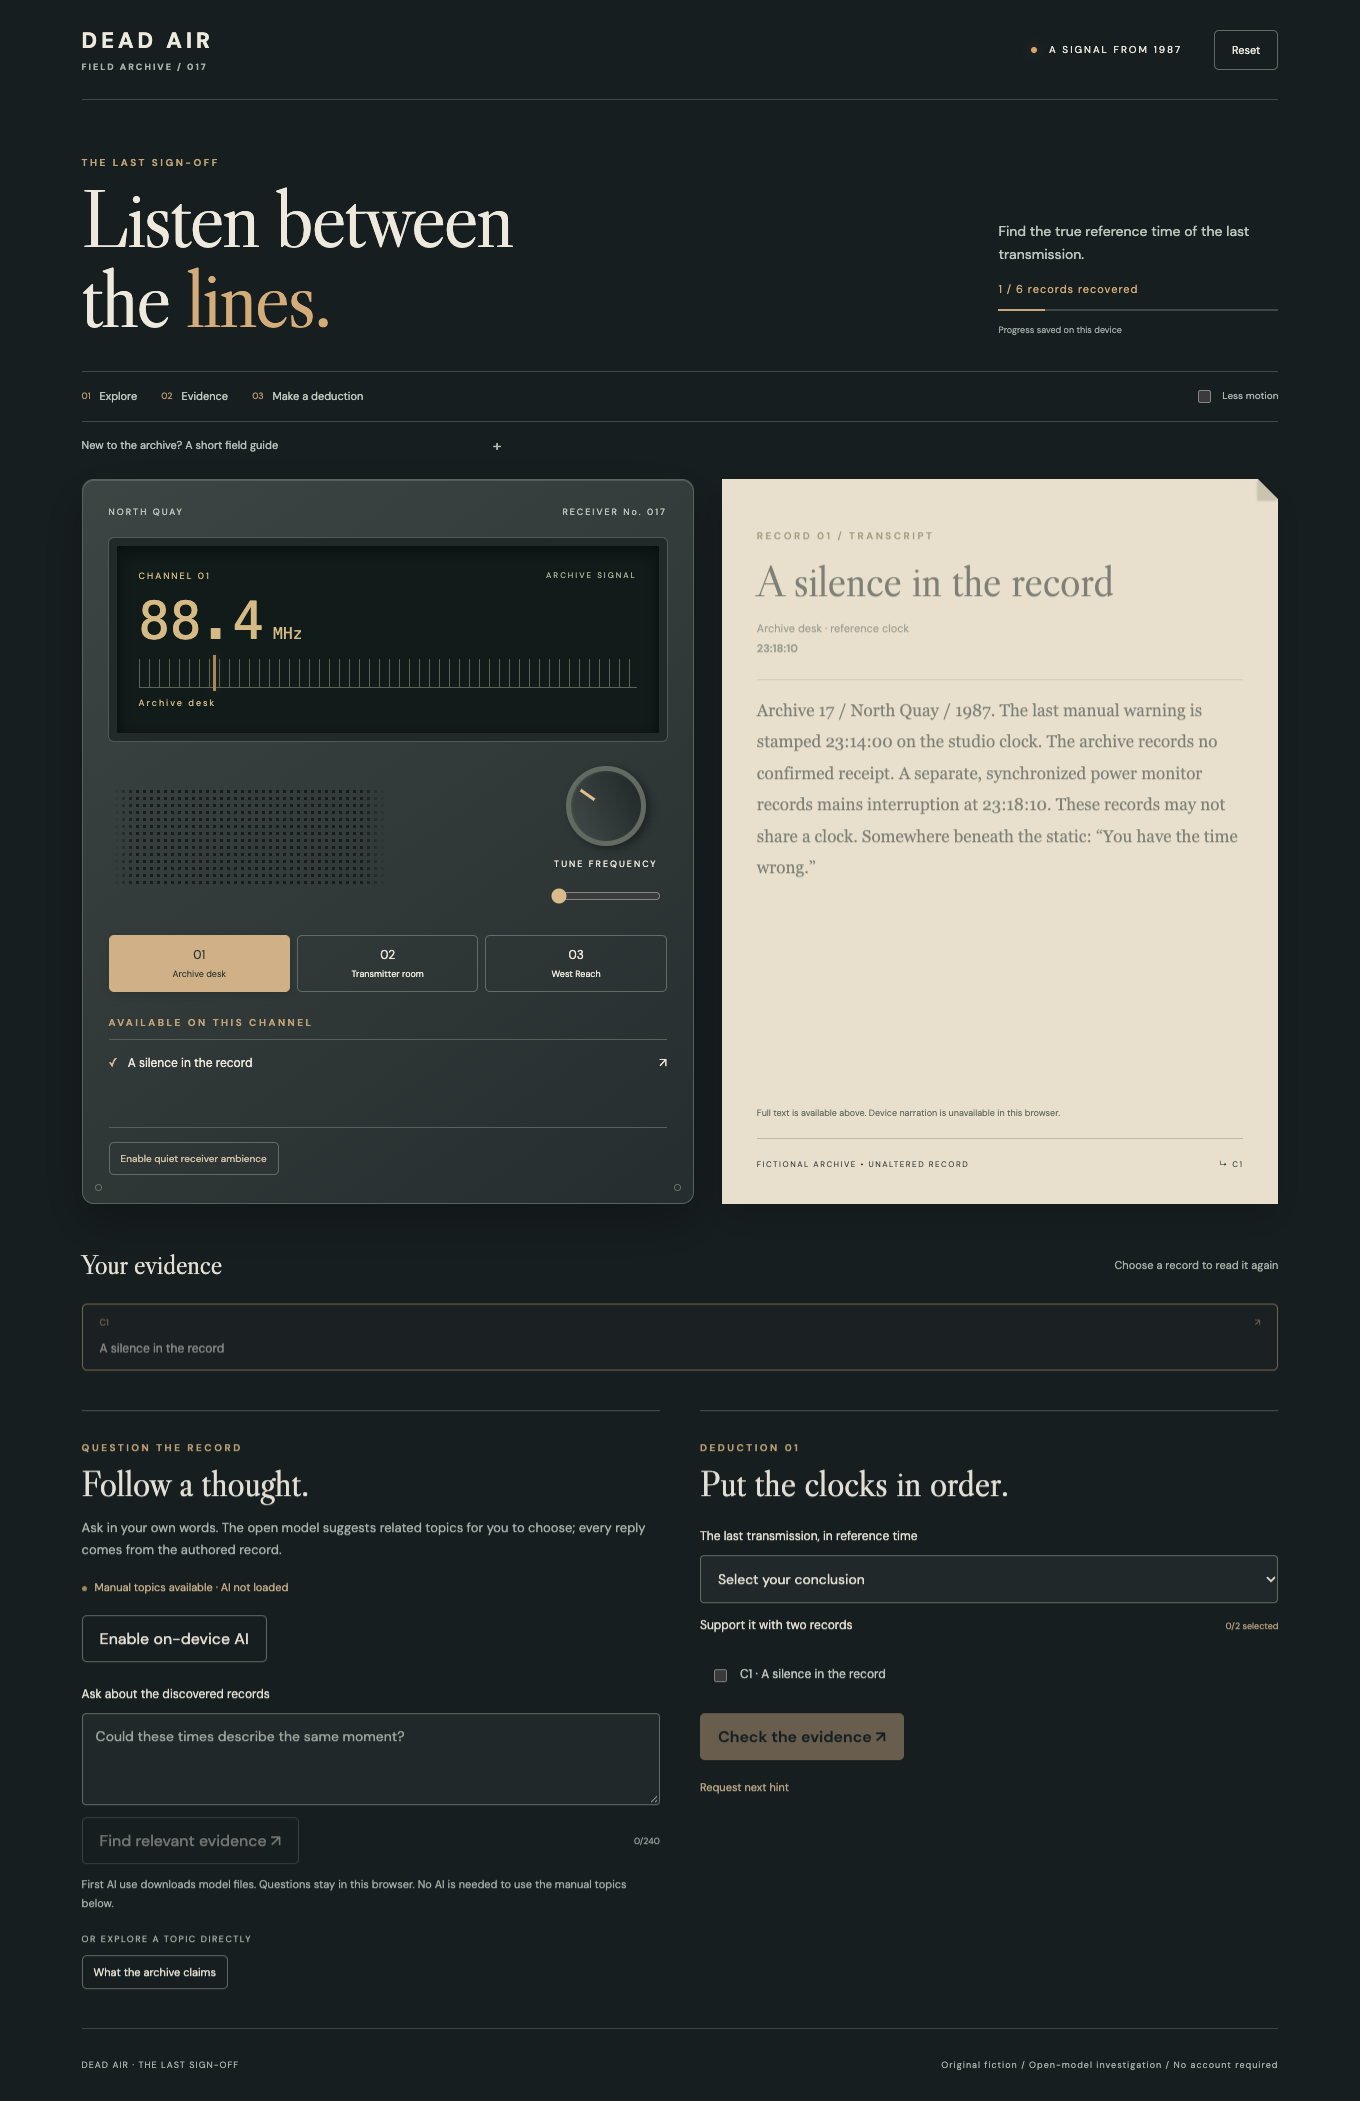
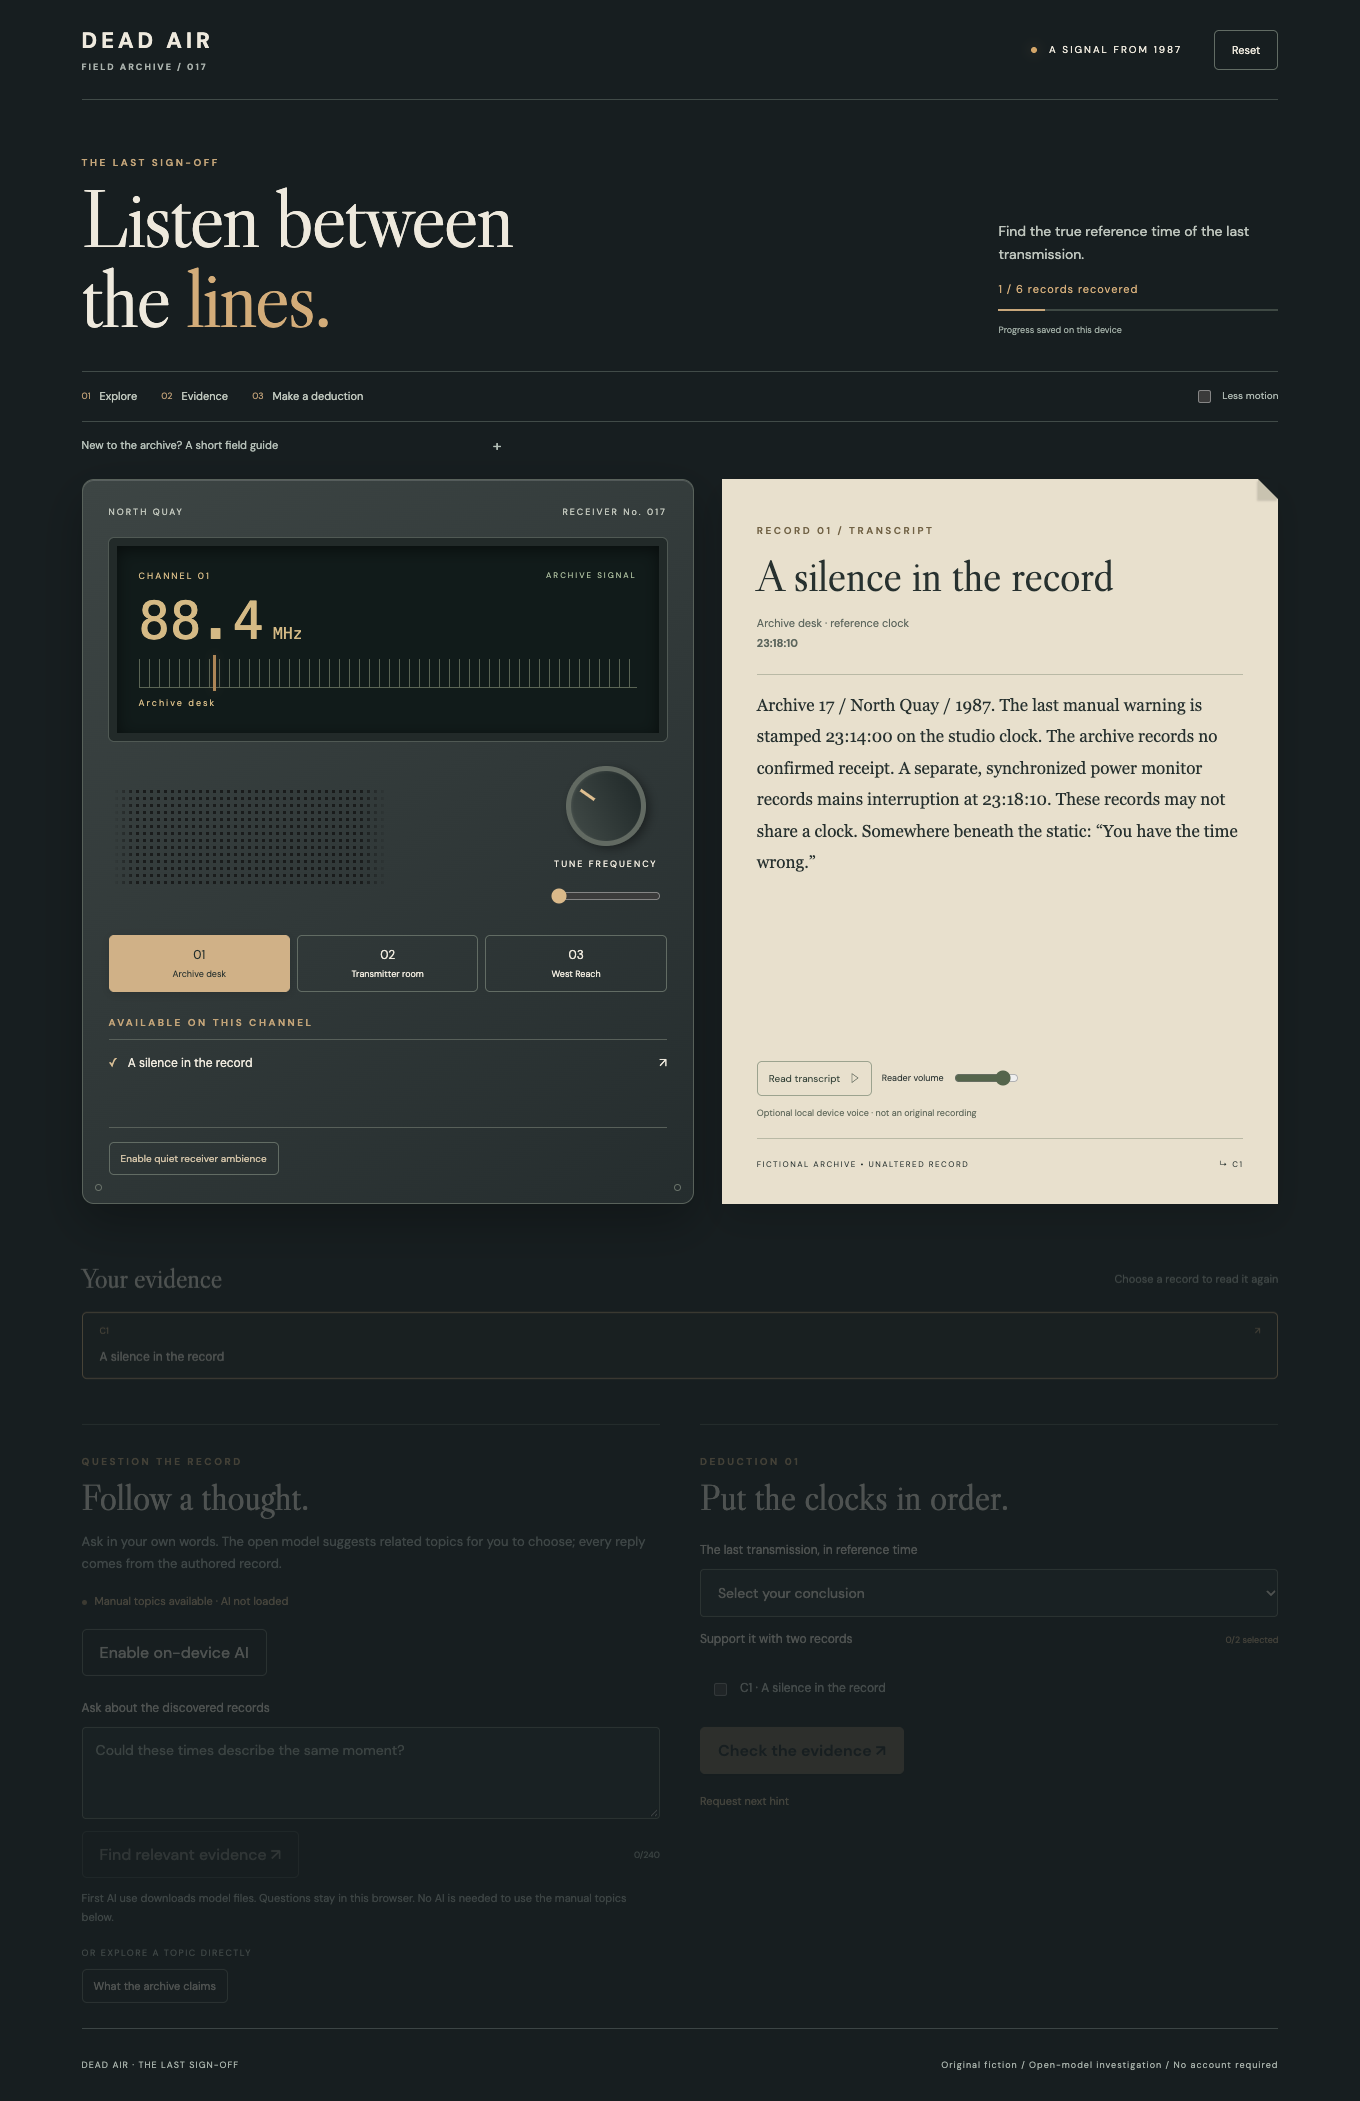
Release complete Dead Air game with verified local model assets

diff --git a/docs/STATUS.md b/docs/STATUS.md
@@ -18,4 +18,4 @@ Direct automatic topic answers were unreliable in diagnostic tests. The game now
 
 ## External completion work
 
-Public GitHub Pages upload/verification is in progress. A genuine friend trial has not happened; docs/PLAYTEST.md contains the guide. No DEV submission has been published. Offline reload and universal speech/screen-reader support are not claimed. The implementation can be played, but contest readiness must not be confused with verified user enjoyment or guaranteed winning prospects.
+Public GitHub Pages deployment is live at https://yashanand69.github.io/dead-air/. CI passed. A fresh public-browser model check completed in 43,574ms with successful inference, topic confirmation, mobile/reduced-motion checks and no page errors. This is one connection measurement, not a guarantee. A genuine friend trial has not happened; docs/PLAYTEST.md contains the guide. No DEV submission has been published. Offline reload and universal speech/screen-reader support are not claimed. The implementation can be played, but contest readiness must not be confused with verified user enjoyment or guaranteed winning prospects.

diff --git a/docs/RELEASE.md b/docs/RELEASE.md
@@ -26,3 +26,5 @@ The implementation is playable; contest submission remains separate. No DEV arti
 Updated Vite, Vitest and Playwright, then reran tests, build and browser verification. The full npm audit (including development dependencies) reported zero known vulnerabilities. Production-subpath model loading measured 926ms over localhost; no public-network claim is inferred. A real automated full-playthrough video is saved locally as docs/dead-air-walkthrough.webm. It contains spoilers and is not a human trial.
 
 Model/runtime source assets are chunked solely to accommodate upload constraints. `npm run dev` and `npm run build` reconstruct them with SHA-256 verification before serving. Runtime game requests still use ordinary model files.
+
+Public release verified: https://yashanand69.github.io/dead-air/ . CI run 40659976540 passed. Fresh public browser model load: 43,574ms on this connection, followed by successful suggestion confirmation and authored evidence. No page errors.

diff --git a/README.md b/README.md
@@ -2,6 +2,8 @@
 
 An original short browser mystery about a radio broadcast and a mistaken archive. Recover six records, compare independent clocks and correct the account using evidence.
 
+Play: https://yashanand69.github.io/dead-air/
+
 ## Play and run
 
 The game requires no account or API key. Use the radio station buttons or keyboard-operable tuner, inspect records, and support each deduction with two pieces of evidence. Hints are optional. Progress is saved locally; Reset clears it.
